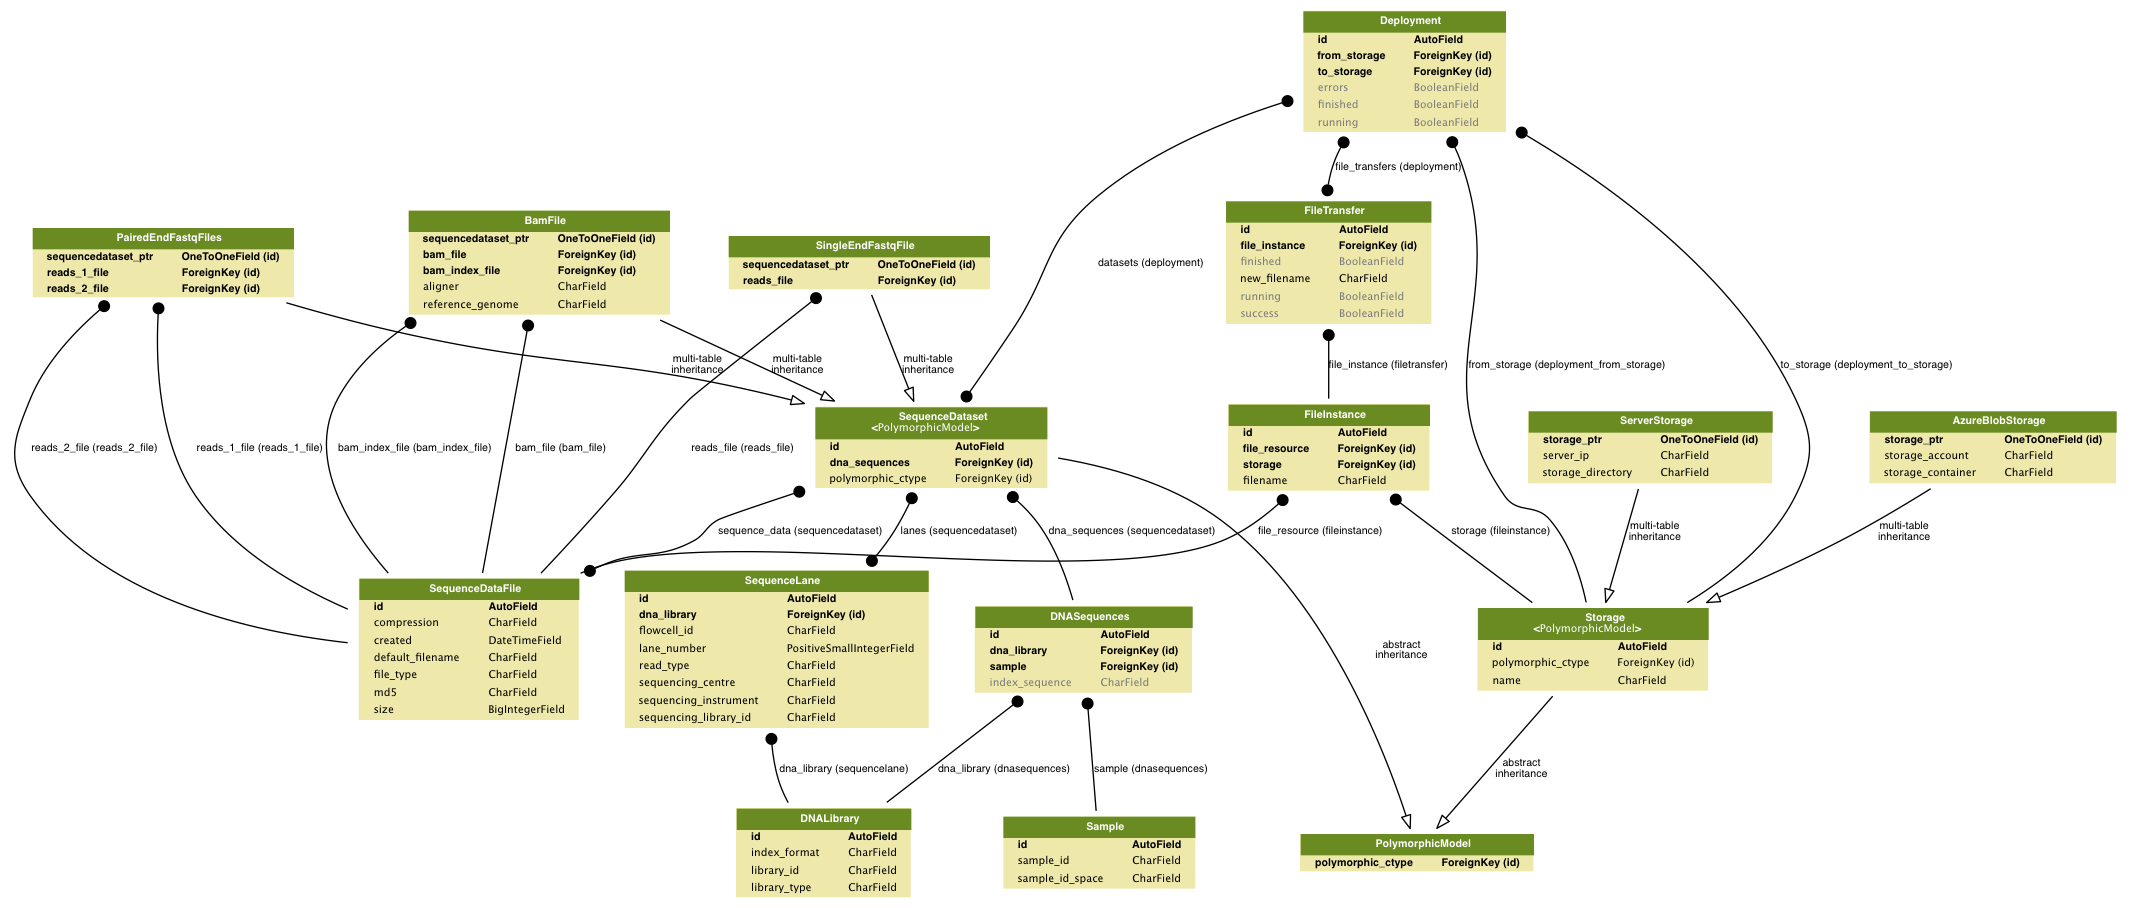
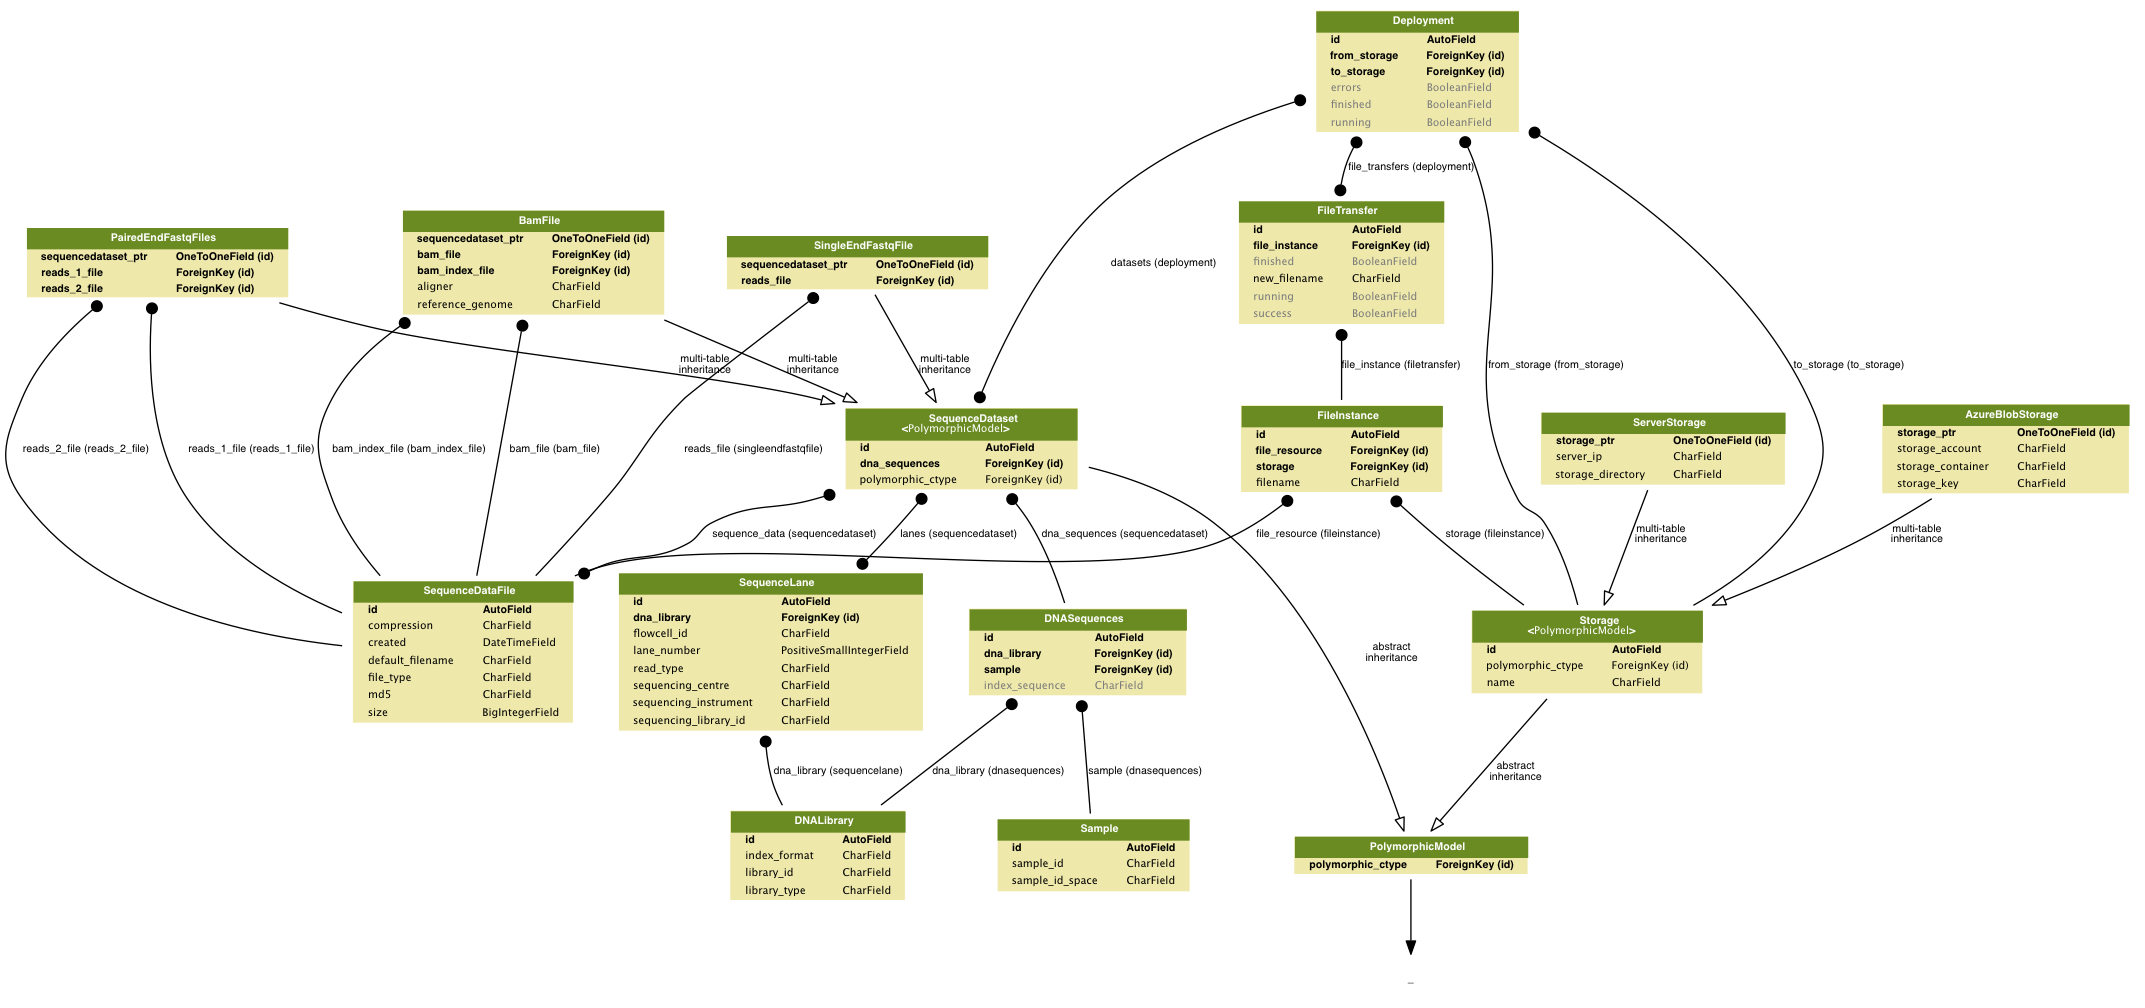
file transfer stores from to storage

diff --git a/tantalus/tasks.py b/tantalus/tasks.py
@@ -11,8 +11,8 @@ import paramiko
 def transfer_file(file_transfer_id):
     file_transfer = FileTransfer.objects.get(pk=file_transfer_id)
 
-    from_storage_type = file_transfer.deployment.from_storage.__class__.__name__
-    to_storage_type = file_transfer.deployment.to_storage.__class__.__name__
+    from_storage_type = file_transfer.from_storage.__class__.__name__
+    to_storage_type = file_transfer.to_storage.__class__.__name__
 
     file_transfer.running = True
     file_transfer.save()
@@ -30,7 +30,7 @@ def transfer_file(file_transfer_id):
         raise Exception('unsupported transfer')
 
     file_instance = tantalus.models.FileInstance(
-        storage=file_transfer.deployment.to_storage,
+        storage=file_transfer.to_storage,
         file_resource=file_transfer.file_instance.file_resource,
         filename=file_transfer.new_filename)
     file_instance.save()
@@ -45,14 +45,14 @@ def transfer_file(file_transfer_id):
 @shared_task
 def transfer_file_server_azure(file_transfer):
     block_blob_service = BlockBlobService(
-        account_name=file_transfer.deployment.to_storage.storage_account,
-        account_key=file_transfer.deployment.to_storage.storage_key)
+        account_name=file_transfer.to_storage.storage_account,
+        account_key=file_transfer.to_storage.storage_key)
 
     def progress_callback(current, total):
         file_transfer.progress = float(current) / float(total)
 
     block_blob_service.create_blob_from_path(
-        file_transfer.deployment.to_storage.storage_container,
+        file_transfer.to_storage.storage_container,
         file_transfer.new_filename,
         file_transfer.file_instance.filename,
         progress_callback=progress_callback)
@@ -63,8 +63,8 @@ def transfer_file_server_azure(file_transfer):
 @shared_task
 def transfer_file_azure_server(file_transfer):
     block_blob_service = BlockBlobService(
-        account_name=file_transfer.deployment.from_storage.storage_account,
-        account_key=file_transfer.deployment.from_storage.storage_key)
+        account_name=file_transfer.from_storage.storage_account,
+        account_key=file_transfer.from_storage.storage_key)
 
     def progress_callback(current, total):
         file_transfer.progress = float(current) / float(total)
@@ -84,8 +84,8 @@ def transfer_file_server_server(file_transfer):
     client.load_system_host_keys()
 
     client.connect(
-        file_transfer.deployment.to_storage.ip_address,
-        username=file_transfer.deployment.to_storage.username)
+        file_transfer.to_storage.ip_address,
+        username=file_transfer.to_storage.username)
 
     sftp = paramiko.SFTPClient.from_transport(client.get_transport())
 

diff --git a/tantalus/migrations/0002_auto_20170823_2058.py b/tantalus/migrations/0002_auto_20170823_2058.py
@@ -1,0 +1,41 @@
+# -*- coding: utf-8 -*-
+# Generated by Django 1.11.4 on 2017-08-23 20:58
+from __future__ import unicode_literals
+
+from django.db import migrations, models
+import django.db.models.deletion
+
+
+class Migration(migrations.Migration):
+
+    dependencies = [
+        ('tantalus', '0001_initial'),
+    ]
+
+    operations = [
+        migrations.AlterField(
+            model_name='deployment',
+            name='datasets',
+            field=models.ManyToManyField(to='tantalus.SequenceDataset'),
+        ),
+        migrations.AlterField(
+            model_name='deployment',
+            name='file_transfers',
+            field=models.ManyToManyField(to='tantalus.FileTransfer'),
+        ),
+        migrations.AlterField(
+            model_name='deployment',
+            name='from_storage',
+            field=models.ForeignKey(on_delete=django.db.models.deletion.CASCADE, related_name='from_storage', to='tantalus.Storage'),
+        ),
+        migrations.AlterField(
+            model_name='deployment',
+            name='to_storage',
+            field=models.ForeignKey(on_delete=django.db.models.deletion.CASCADE, related_name='to_storage', to='tantalus.Storage'),
+        ),
+        migrations.AlterField(
+            model_name='singleendfastqfile',
+            name='reads_file',
+            field=models.ForeignKey(on_delete=django.db.models.deletion.CASCADE, to='tantalus.SequenceDataFile'),
+        ),
+    ]

diff --git a/tantalus/models.py b/tantalus/models.py
@@ -474,6 +474,16 @@ class FileTransfer(models.Model):
     Transfer of a specific data file.
     """
 
+    from_storage = models.ForeignKey(
+        Storage,
+        related_name='from_storage',
+    )
+
+    to_storage = models.ForeignKey(
+        Storage,
+        related_name='to_storage',
+    )
+
     file_instance = models.ForeignKey(
         FileInstance,
     )
@@ -494,22 +504,20 @@ class Deployment(models.Model):
 
     from_storage = models.ForeignKey(
         Storage,
-        related_name='deployment_from_storage',
+        related_name='from_storage',
     )
 
     to_storage = models.ForeignKey(
         Storage,
-        related_name='deployment_to_storage',
+        related_name='to_storage',
     )
 
     datasets = models.ManyToManyField(
         SequenceDataset,
-        verbose_name='Datasets',
     )
 
     file_transfers = models.ManyToManyField(
         FileTransfer,
-        verbose_name='File Transfers',
     )
 
     running = models.BooleanField('Running', default=False)

diff --git a/tantalus/views.py b/tantalus/views.py
@@ -70,10 +70,11 @@ def start_transfers(deployment):
             file_transfer = existing_transfers[0]
 
         else:
-            file_transfer = FileTransfer(
-                deployment=deployment,
-                file_instance=file_instance,
-                new_filename=seq_data.default_filename)
+            file_transfer = FileTransfer()
+            file_transfer.from_storage = deployment.from_storage
+            file_transfer.to_storage = deployment.to_storage
+            file_transfer.file_instance = file_instance
+            file_transfer.new_filename = seq_data.default_filename
             file_transfer.save()
 
             transfer_file.apply_async(args=(file_transfer.id,), queue=deployment.from_storage.name)

diff --git a/tantalus/migrations/0003_auto_20170823_2059.py b/tantalus/migrations/0003_auto_20170823_2059.py
@@ -1,0 +1,21 @@
+# -*- coding: utf-8 -*-
+# Generated by Django 1.11.4 on 2017-08-23 20:59
+from __future__ import unicode_literals
+
+from django.db import migrations, models
+import django.db.models.deletion
+
+
+class Migration(migrations.Migration):
+
+    dependencies = [
+        ('tantalus', '0002_auto_20170823_2058'),
+    ]
+
+    operations = [
+        migrations.AlterField(
+            model_name='singleendfastqfile',
+            name='reads_file',
+            field=models.ForeignKey(on_delete=django.db.models.deletion.CASCADE, related_name='reads_file', to='tantalus.SequenceDataFile'),
+        ),
+    ]
